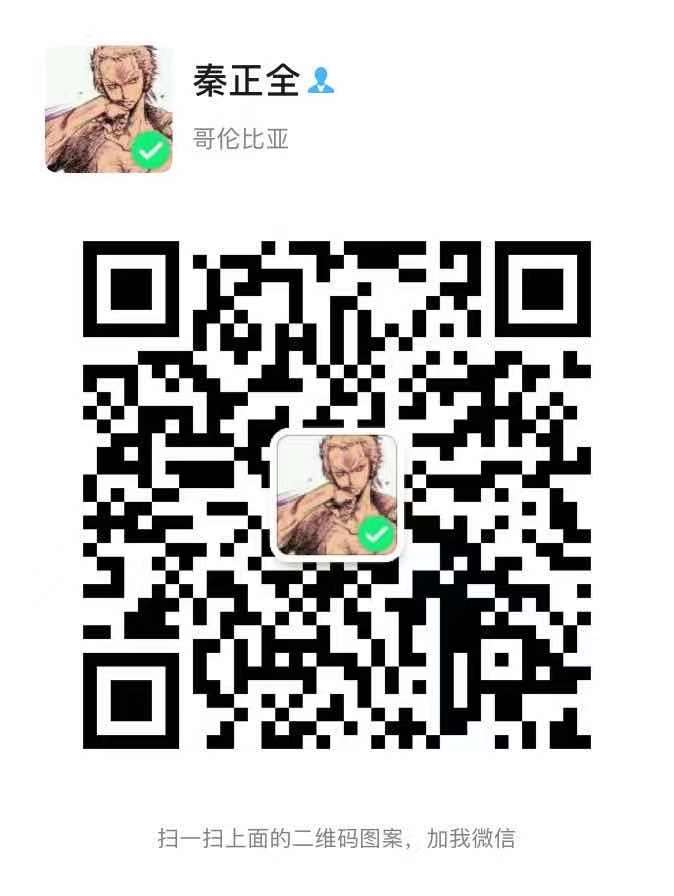
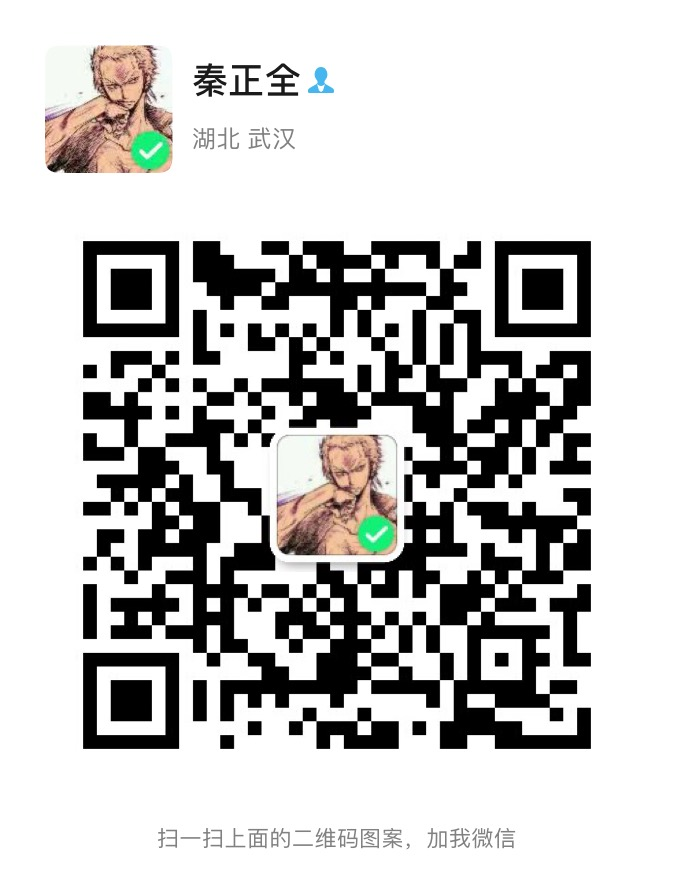
更新微信二维码

diff --git a/index.html b/index.html
@@ -117,7 +117,7 @@
                     </li>
                     <li>
                         <label>个人主页</label>
-                        <a href="http://qinzhengquan.cn/" target="_blank">qinzhengquan.cn/</a>
+                        <a href="http://qinzhengquan.cn/" target="_blank">qinzhengquan.cn</a>
                     </li>
                     <li>
                         <label>Github</label>
